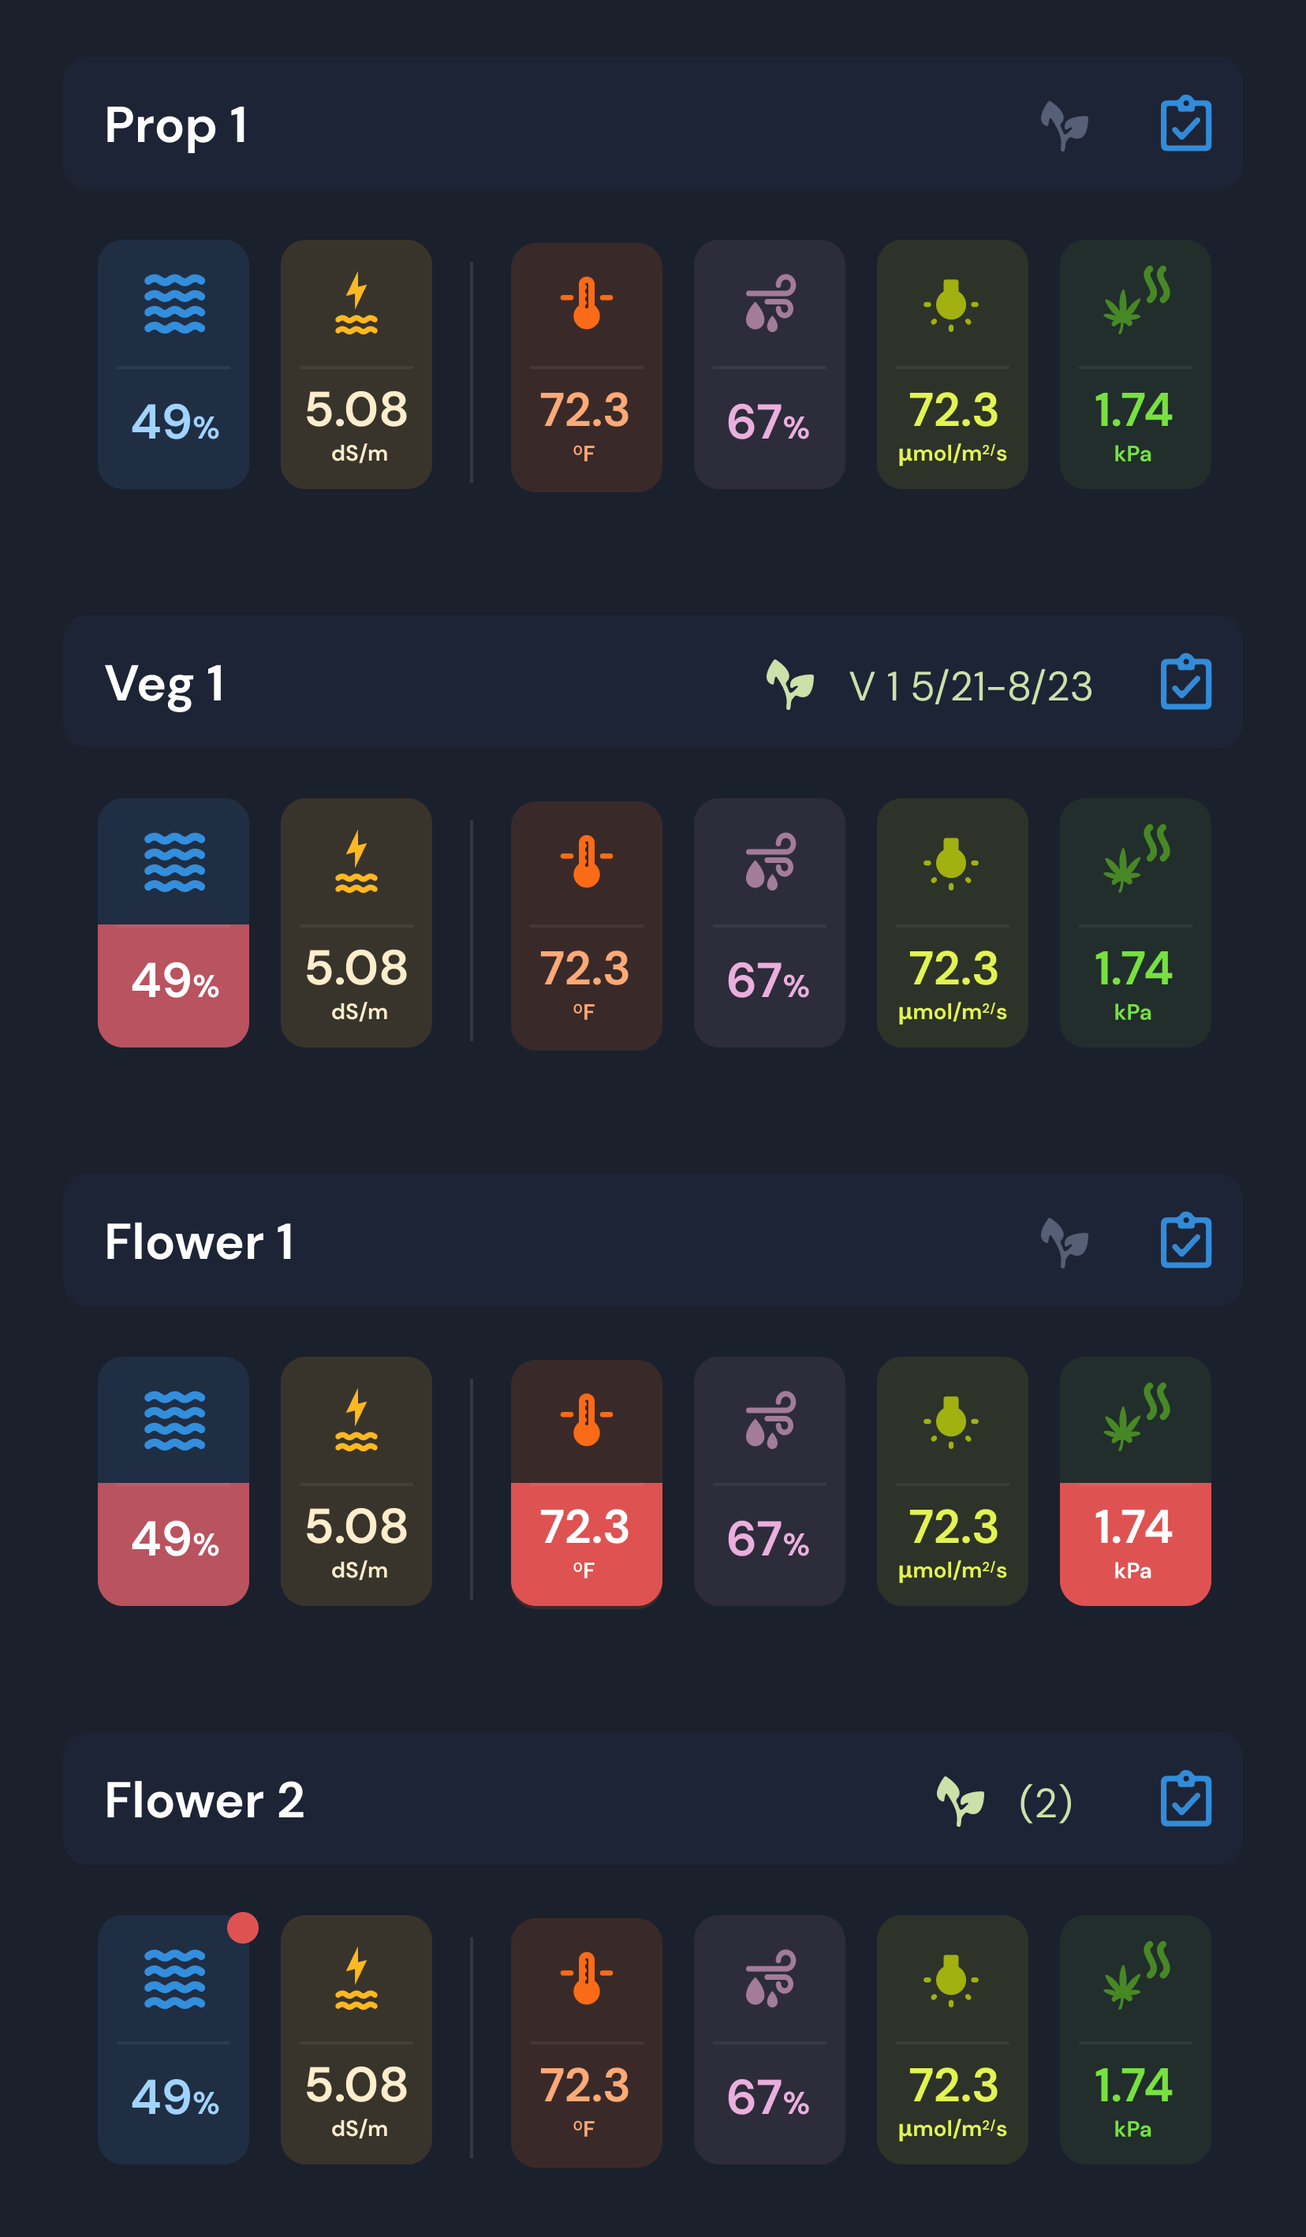
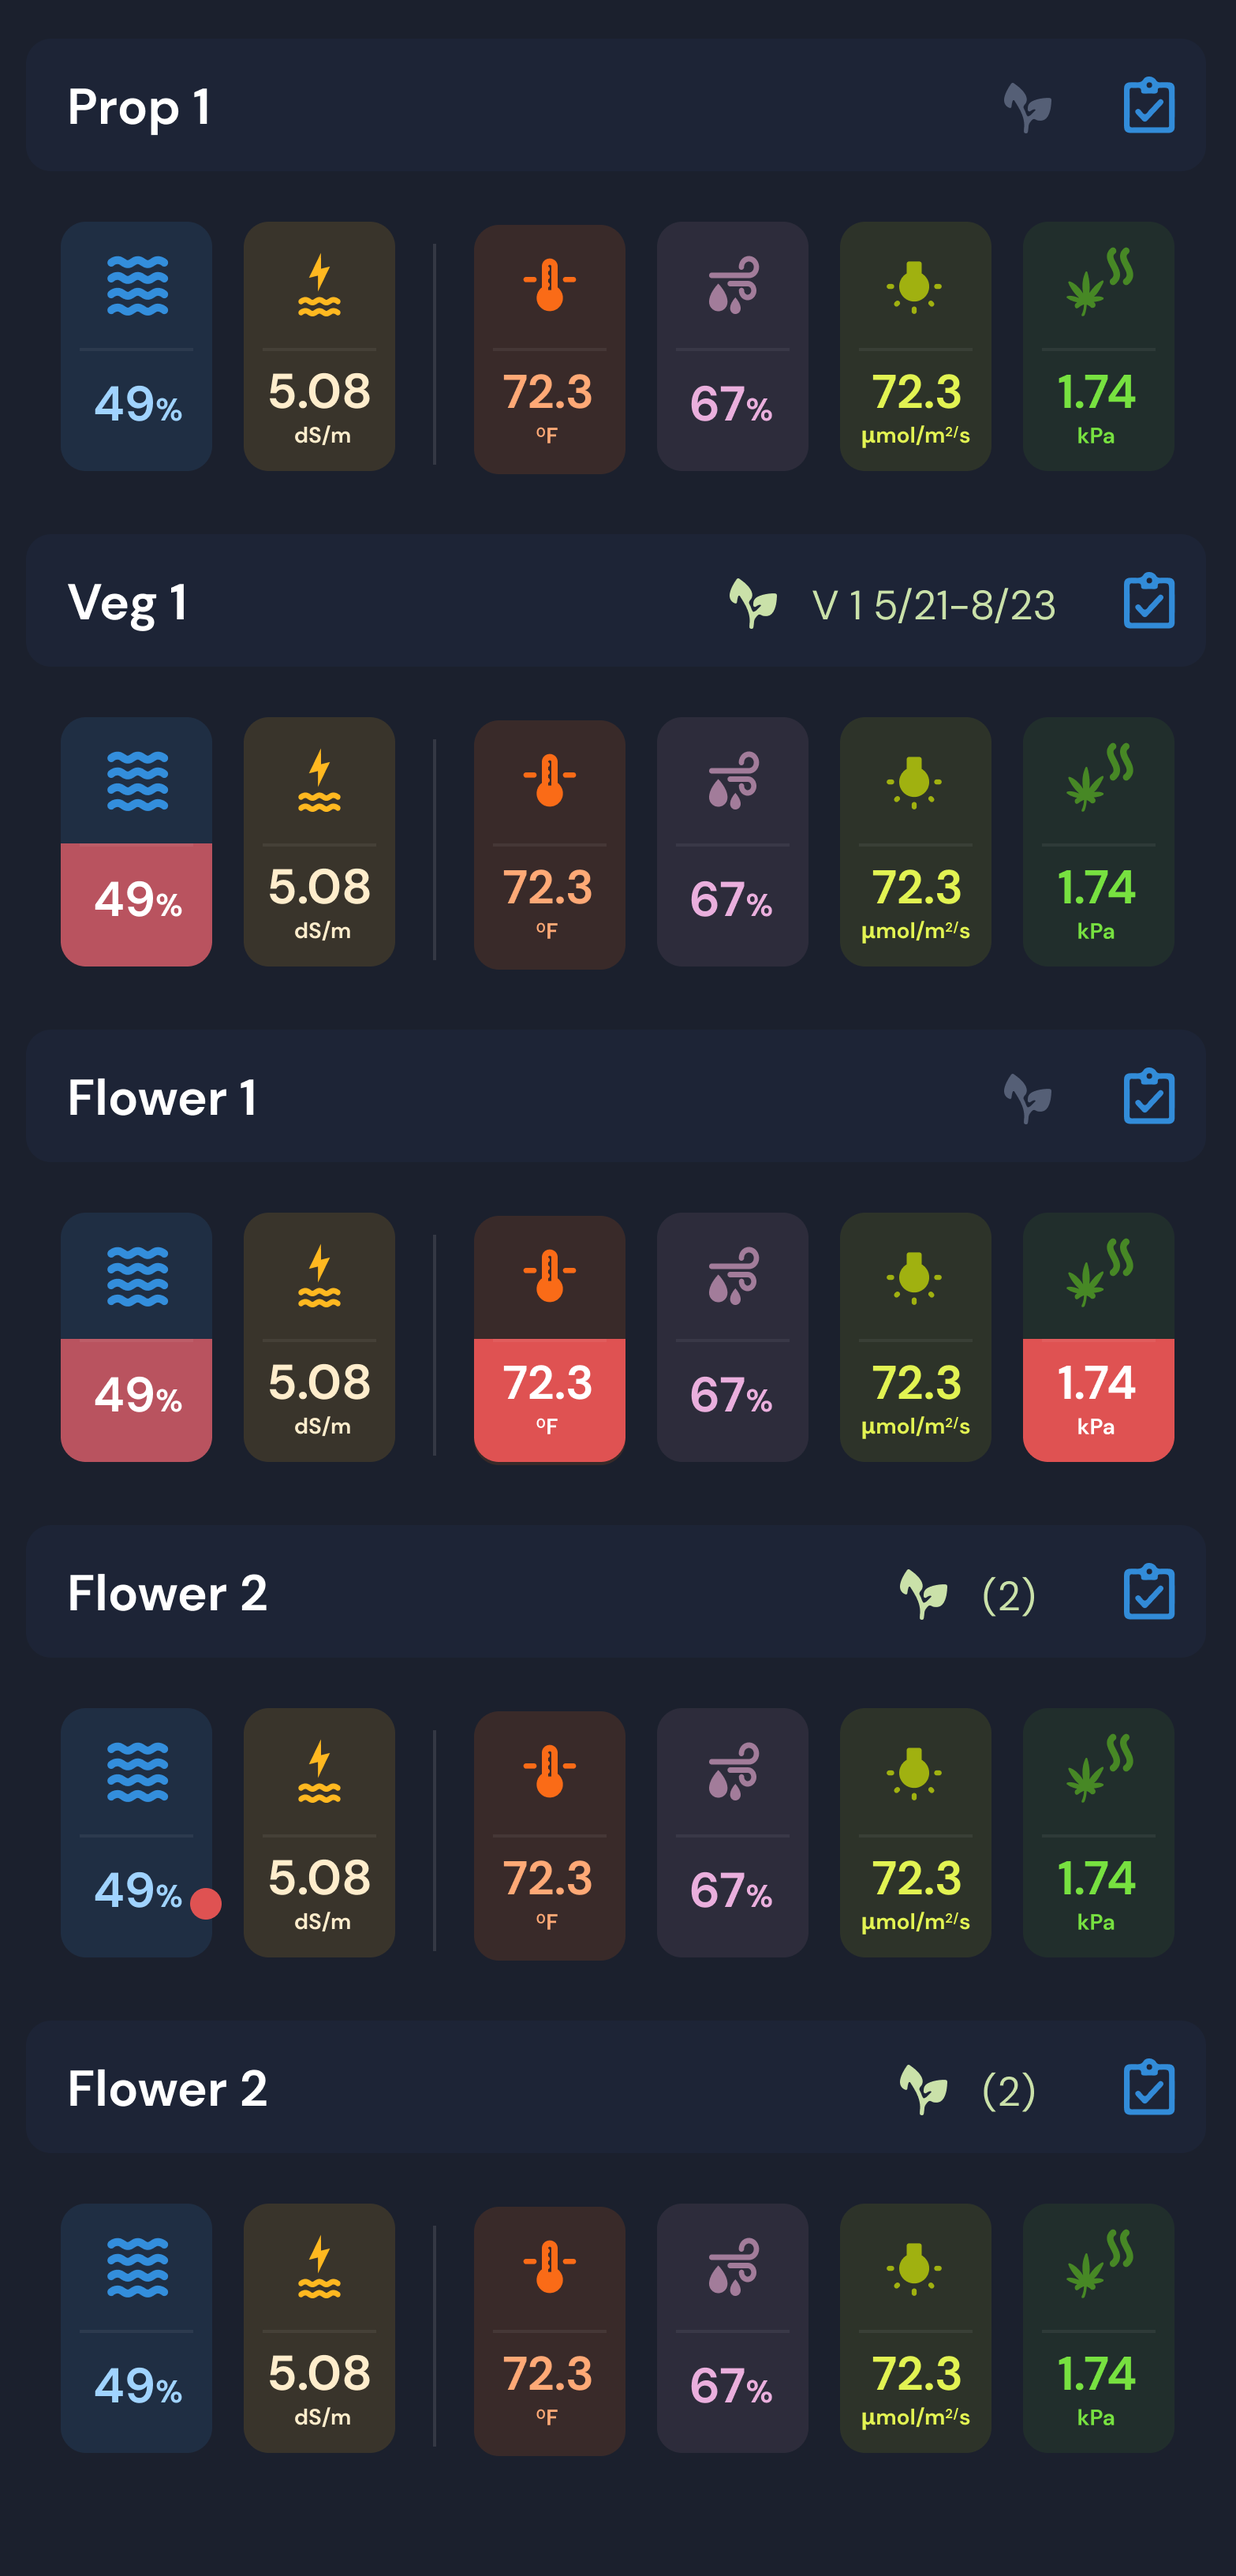
UI/UX changes

diff --git a/lib/features/dashboard/widgets/dashboard_custom_bottom_sheet.dart b/lib/features/dashboard/widgets/dashboard_custom_bottom_sheet.dart
@@ -4,17 +4,23 @@ import 'package:flutter_syncfusion/features/dashboard/widgets/dashboard_custom_b
 
 import '../../../theme/theme_colors.dart';
 
-class CustomBottomSheet extends StatefulWidget {
-  final DraggableScrollableController scrollController =
+class DashboardCustomBottomSheet extends StatefulWidget {
+  final DraggableScrollableController _scrollController =
       DraggableScrollableController();
 
-  CustomBottomSheet({super.key});
+  final List<Widget> children;
+
+  DashboardCustomBottomSheet({
+    super.key,
+    required this.children,
+  });
 
   @override
-  State<CustomBottomSheet> createState() => _CustomBottomSheetState();
+  State<DashboardCustomBottomSheet> createState() =>
+      _DashboardCustomBottomSheetState();
 }
 
-class _CustomBottomSheetState extends State<CustomBottomSheet>
+class _DashboardCustomBottomSheetState extends State<DashboardCustomBottomSheet>
     with SingleTickerProviderStateMixin {
   bool isExpanded = false;
   static const double minimumSize = 0.18;
@@ -23,20 +29,105 @@ class _CustomBottomSheetState extends State<CustomBottomSheet>
   @override
   void initState() {
     super.initState();
-    widget.scrollController.addListener(_handleSheetExpansion);
+    widget._scrollController.addListener(_handleSheetExpansion);
   }
 
   @override
   void dispose() {
-    widget.scrollController.removeListener(_handleSheetExpansion);
+    widget._scrollController.removeListener(_handleSheetExpansion);
     super.dispose();
   }
 
   @override
   Widget build(BuildContext context) {
+    return Stack(
+      children: [
+        SingleChildScrollView(
+          child: Column(
+            children: [
+              ...widget.children,
+              const SizedBox(height: 150),
+            ],
+          ),
+        ),
+        isExpanded
+            ? GestureDetector(
+                onTap: () {
+                  debugPrint('tapped');
+                  _animateSheetExpansion(
+                    null,
+                    null,
+                    isExpanded,
+                    widget._scrollController,
+                    () {
+                      setState(() {
+                        isExpanded = !isExpanded;
+                      });
+                    },
+                  );
+                },
+                child: AnimatedContainer(
+                  // animation duration for darkening the background
+                  duration: const Duration(milliseconds: 250),
+                  color: isExpanded
+                      ? Colors.black.withOpacity(0.5)
+                      : Colors.black.withOpacity(0.0),
+                ),
+              )
+            : Container(),
+        Column(
+          mainAxisAlignment: MainAxisAlignment.end,
+          children: [
+            Expanded(child: _buildDraggableBottomSheet()),
+          ],
+        ),
+      ],
+    );
+  }
+
+  void _animateSheetExpansion(
+    int? tappedIndex,
+    int? index,
+    bool isExpanded,
+    DraggableScrollableController scrollController,
+    Function onTap,
+  ) async {
+    // animate the tapped icon only if it is clicked
+    if (tappedIndex != null && index != null) {
+      setState(() {
+        tappedIndex = index;
+      });
+      await Future.delayed(const Duration(milliseconds: 150), () {
+        setState(() {
+          tappedIndex = -1;
+        });
+      });
+    }
+
+    if (isExpanded) {
+      await scrollController.animateTo(
+        minimumSize,
+        duration: const Duration(milliseconds: 100),
+        curve: Curves.easeInOut,
+      );
+      await Future.delayed(
+        const Duration(milliseconds: 180),
+      );
+    }
+
+    await Future.delayed(
+      const Duration(milliseconds: 90),
+    );
+
+    if (tappedIndex != null && index != null) {
+      onTap();
+    }
+  }
+
+  Widget _buildDraggableBottomSheet() {
     return DraggableScrollableSheet(
       maxChildSize: maximumSize,
-      controller: widget.scrollController,
+      controller: widget._scrollController,
       initialChildSize: minimumSize,
       minChildSize: minimumSize,
       snapSizes: const [minimumSize, maximumSize],
@@ -76,7 +167,7 @@ class _CustomBottomSheetState extends State<CustomBottomSheet>
                         const SizedBox(height: 40),
                         DashboardCustomBottomSheetIconGrid(
                           isExpanded: isExpanded,
-                          scrollController: widget.scrollController,
+                          scrollController: widget._scrollController,
                           minimumSize: minimumSize,
                         ),
                       ],
@@ -94,8 +185,8 @@ class _CustomBottomSheetState extends State<CustomBottomSheet>
 
   Widget _responsiveExpandIndicator() {
     return Positioned(
-      top: 5,
-      left: MediaQuery.of(context).size.width / 2 - 25,
+      top: 8,
+      left: MediaQuery.of(context).size.width / 2 - 20,
       child: GestureDetector(
         onTap: () {
           setState(() {
@@ -104,16 +195,16 @@ class _CustomBottomSheetState extends State<CustomBottomSheet>
         },
         child: AnimatedRotation(
           turns: !isExpanded ? 0.0 : 0.5,
-          duration: const Duration(milliseconds: 120),
+          duration: const Duration(milliseconds: 150),
           child: Container(
             decoration: BoxDecoration(
               color: ThemeColors.bottomSheetColor,
               shape: BoxShape.circle,
             ),
-            child: Icon(
+            child: const Icon(
               Icons.keyboard_arrow_up_rounded,
-              size: 50,
-              color: ThemeColors.iconColor,
+              size: 40,
+              color: Color(0xFF89C9FF),
             ),
           ),
         ),
@@ -122,7 +213,7 @@ class _CustomBottomSheetState extends State<CustomBottomSheet>
   }
 
   void _handleSheetExpansion() {
-    final double currentSize = widget.scrollController.size;
+    final double currentSize = widget._scrollController.size;
 
     if (currentSize >= (maximumSize - maximumSize * 0.25) && !isExpanded) {
       setState(() {

diff --git a/lib/features/dashboard/dashboard_screen.dart b/lib/features/dashboard/dashboard_screen.dart
@@ -3,9 +3,14 @@ import 'package:flutter/material.dart';
 import '../../theme/theme_colors.dart';
 import 'widgets/dashboard_custom_bottom_sheet.dart';
 
-class DashboardScreen extends StatelessWidget {
+class DashboardScreen extends StatefulWidget {
   const DashboardScreen({super.key});
 
+  @override
+  State<DashboardScreen> createState() => _DashboardScreenState();
+}
+
+class _DashboardScreenState extends State<DashboardScreen> {
   @override
   Widget build(BuildContext context) {
     return Scaffold(
@@ -20,21 +25,9 @@ class DashboardScreen extends StatelessWidget {
           ),
         ),
       ),
-      body: Stack(
+      body: DashboardCustomBottomSheet(
         children: [
-          SingleChildScrollView(
-            child: Column(
-              children: [
-                _buildSampleBackground(),
-              ],
-            ),
-          ),
-          Column(
-            mainAxisAlignment: MainAxisAlignment.end,
-            children: [
-              Expanded(child: CustomBottomSheet()),
-            ],
-          ),
+          _buildSampleBackground(),
         ],
       ),
     );

diff --git a/lib/theme/theme_colors.dart b/lib/theme/theme_colors.dart
@@ -3,8 +3,10 @@ import 'package:flutter/material.dart';
 class ThemeColors {
   static Color primaryColor = const Color(0xFF1B202D);
   static Color buttonBorderColor = const Color(0xFF338EDC);
-  static Color iconColor = const Color(0xFF328AD7);
-  static Color textColor = const Color(0xFFFFFFFF);
-  static Color bottomSheetColor = const Color(0xFF1D2436);
+  // static Color iconColor = const Color(0xFF328AD7);
+  // static Color textColor = const Color.fromARGB(255, 255, 255, 255);
+  static Color iconColor = const Color(0xFFFFFFFF);
+  static Color textColor = const Color.fromRGBO(255, 255, 255, 0.722);
+  static Color bottomSheetColor = const Color(0xFF243752);
   final Color buttonBackgroundColor = const Color(0xFF338EDC).withOpacity(0.16);
 }

diff --git a/lib/features/dashboard/widgets/dashboard_custom_bottom_sheet_icon_grid.dart b/lib/features/dashboard/widgets/dashboard_custom_bottom_sheet_icon_grid.dart
@@ -30,8 +30,8 @@ class _DashboardCustomBottomSheetIconGridState
       crossAxisCount: 4,
       shrinkWrap: true,
       physics: const NeverScrollableScrollPhysics(),
-      mainAxisSpacing: 00,
-      crossAxisSpacing: 10,
+      mainAxisSpacing: 0,
+      crossAxisSpacing: 5,
       padding: const EdgeInsets.symmetric(vertical: 10, horizontal: 15),
       children: List.generate(10, (index) {
         Function onTap = () {};
